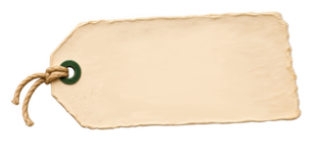
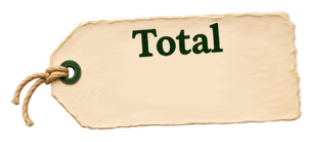
fix(chapchitra): replace tag with printed Total and serif live amount

diff --git a/projects/chapchitra/src/worktable-studio.css b/projects/chapchitra/src/worktable-studio.css
@@ -599,25 +599,16 @@
  container-type:inline-size;pointer-events:none;user-select:none;
 }
 .cc-worktable-price-tag img{display:block;width:100%;height:100%;object-fit:fill;pointer-events:none}
-/* Only the typeset block tilts to match the paper's ~-2.5deg edge slope.
-   Preserve the original PNG element, outer tag transform and stage position. */
+/* Updated paper contains its own printed "Total". Only the price amount
+   is superimposed, with a matching tilt. The img and parent tag do not move. */
 .cc-worktable-tag-typography{
- position:absolute;z-index:1;display:flex;flex-direction:column;
- align-items:center;justify-content:center;
- left:63%;top:52%;width:66%;
+ position:absolute;z-index:1;display:block;
+ width:var(--cc-tag-amount-width);left:63%;top:72%;
  transform:translate(-50%,-50%) rotate(var(--cc-tag-type-angle));
- transform-origin:50% 50%;
- gap:var(--cc-tag-line-gap);
+ transform-origin:center;
  white-space:nowrap;pointer-events:none;user-select:none;
- font-family:"Hind Siliguri",var(--sans);color:#293D2D;
- font-variant-numeric:tabular-nums;
-}
-.cc-worktable-tag-label{
- display:block;font-size:var(--cc-tag-label-size);
- font-weight:var(--cc-tag-label-weight);
- line-height:var(--cc-tag-label-leading);
- letter-spacing:var(--cc-tag-label-spacing);
- text-transform:uppercase;white-space:nowrap;
+ font-family:var(--cc-tag-amount-font);
+ color:#293D2D;font-variant-numeric:tabular-nums;
 }
 .cc-worktable-tag-total{
  display:block;font-size:var(--cc-tag-amount-size);
